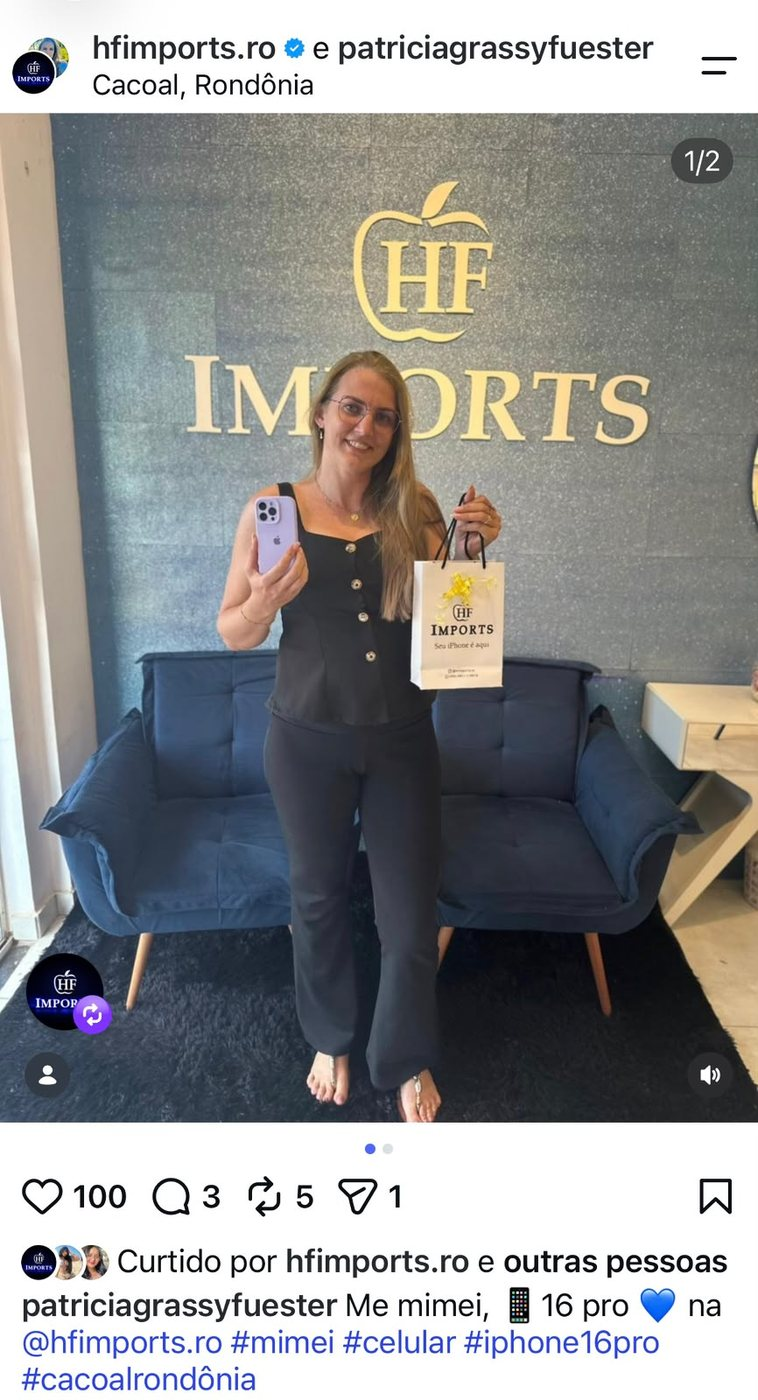
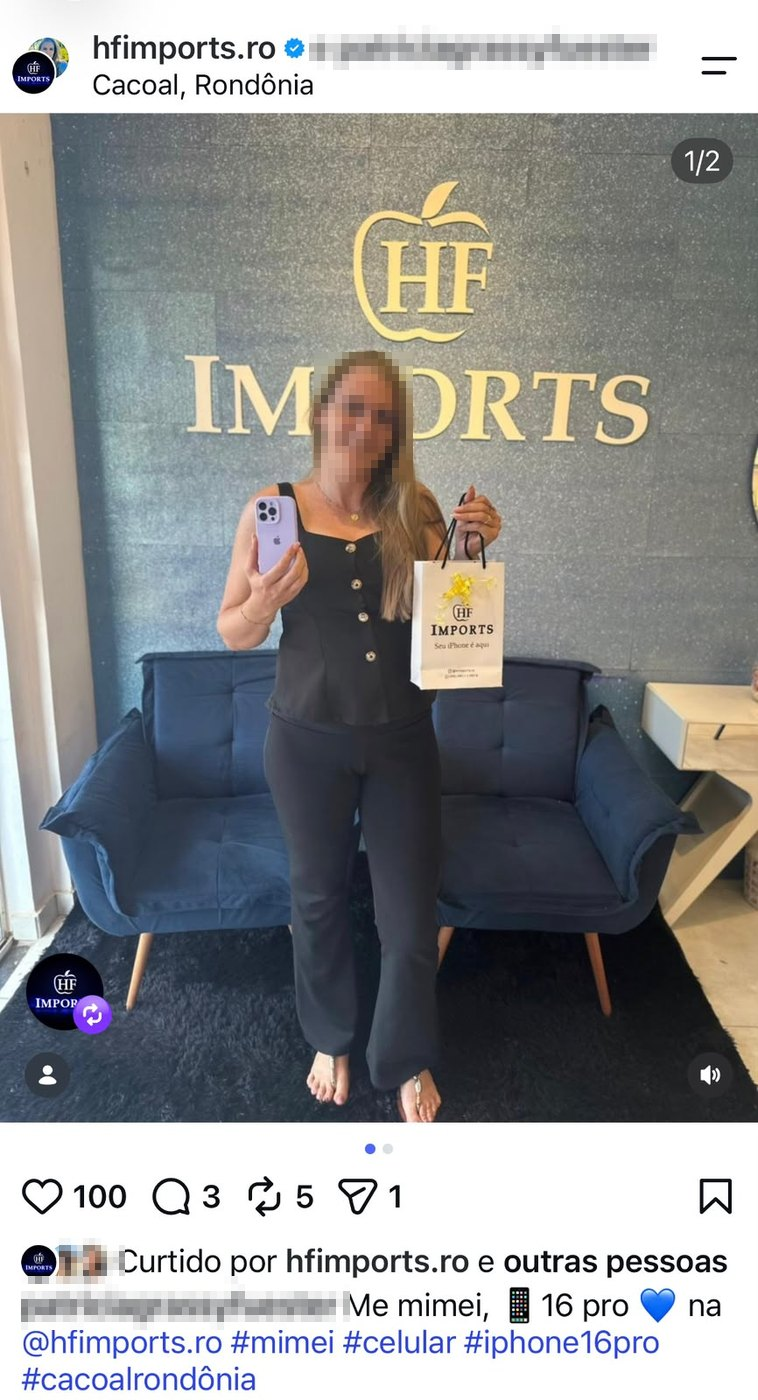
Acabamento: produto na primeira dobra em mobile, terceira pessoa anonimizada, story reequilibrado
- hero mobile: as tags saem (repetiam a faixa logo abaixo) e a foto entra inteira na
  primeira dobra em 390x844, 390x600 e 360x640, com o produto reenquadrado
- prova-post: rosto e handle da cliente ocultados, no mesmo tratamento dos directs
- prova social: o card do story deixa de ser o maior e passa ao tamanho dos demais;
  o rodape da secao entra na grade ao lado dele
- og:url e canonical mantidos, por nao haver ainda URL definitiva do cliente

diff --git a/index.html b/index.html
@@ -246,12 +246,13 @@ p{margin:0;}
 .p1{grid-column:span 4;}
 .p2{grid-column:span 4;margin-top:40px;}
 .p3{grid-column:span 4;}
-.p4{grid-column:3/11;margin-top:8px;}
-.p4 img{aspect-ratio:16/9;object-fit:cover;object-position:50% 34%;}
+.p4{grid-column:span 4;}
+.p4 img{aspect-ratio:1/1;object-fit:cover;object-position:50% 40%;}
 .prova-foot{
-  margin-top:40px;padding-top:24px;border-top:1px solid rgba(3,32,78,.13);
-  display:flex;flex-wrap:wrap;gap:16px;align-items:center;justify-content:space-between;
-  font-size:15px;color:var(--ink-soft);
+  grid-column:span 8;align-self:end;padding:0 0 6px 28px;
+  border-left:1px solid rgba(3,32,78,.14);
+  display:flex;flex-direction:column;align-items:flex-start;gap:14px;
+  font-size:15.5px;line-height:1.6;color:var(--ink-soft);max-width:46ch;
 }
 .prova-foot a{color:var(--navy);text-decoration:none;font-weight:600;border-bottom:1px solid var(--gold-deep);}
 
@@ -329,7 +330,8 @@ p{margin:0;}
   .tile-c img{min-height:220px;aspect-ratio:16/7;}
   .tile-c .tile-body{padding:32px 28px 36px;}
   .p1,.p2,.p3{grid-column:span 6;margin-top:0;}
-  .p4{grid-column:span 12;}
+  .p4{grid-column:span 6;}
+  .prova-foot{grid-column:span 12;padding:22px 0 0;border-left:0;border-top:1px solid rgba(3,32,78,.14);max-width:none;}
 }
 @media (max-width:760px){
   body{font-size:16.5px;}
@@ -343,16 +345,17 @@ p{margin:0;}
   .sec{padding:72px 0;}
   .sec-tight{padding:58px 0;}
   .wrap{padding:0 20px;}
-  .hero-grid{padding:114px 0 62px;gap:34px;}
+  .hero-grid{padding:112px 0 56px;gap:26px;}
   .hero h1{font-size:clamp(31px,8.4vw,42px);}
-  .hero-sub{font-size:16.5px;}
-  .hero-cta{gap:12px;}
+  .hero-sub{font-size:16.5px;margin-top:16px;}
+  .hero-cta{gap:12px;margin-top:26px;}
   .hero-cta .btn{flex:1 1 100%;}
-  .hero-tag{margin-top:28px;padding-top:18px;font-size:12px;gap:8px 18px;}
-  .hero-shot img{aspect-ratio:16/10;object-position:52% 26%;}
+  .hero-tag{display:none;}
+  .hero-shot img{aspect-ratio:16/10;object-position:52% 62%;}
   .hero-stamp{position:static;margin-top:14px;max-width:none;}
   .p1,.p2,.p3,.p4{grid-column:span 12;margin-top:0;}
   .p4 img{aspect-ratio:4/3;}
+  .prova-foot{padding-top:18px;}
   .prova-grid{gap:16px;}
   .rodape-grid{grid-template-columns:1fr;}
   .rodape-links{text-align:left;}
@@ -362,9 +365,13 @@ p{margin:0;}
   .loja-faixa img{aspect-ratio:2/1;}
   .loja-cta .btn{flex:1 1 100%;}
 }
-@media (max-height:660px) and (max-width:760px){
-  .hero-grid{padding:104px 0 52px;}
-  .hero-shot img{aspect-ratio:2/1;}
+@media (max-height:700px) and (max-width:760px){
+  .hero-grid{padding:94px 0 40px;gap:20px;}
+  .hero h1{font-size:29px;}
+  .hero-sub{font-size:15.5px;line-height:1.5;margin-top:14px;}
+  .hero-cta{margin-top:20px;gap:10px;}
+  .hero-shot img{aspect-ratio:2.6/1;object-position:50% 78%;}
+  .hero-stamp{display:none;}
 }
 @media (prefers-reduced-motion:reduce){
   *{animation:none!important;transition:none!important;}
@@ -528,8 +535,8 @@ p{margin:0;}
         <figcaption><b>Direct</b> — cliente sobre o atendimento e as indicações que fez.</figcaption>
       </figure>
       <figure class="card p2 rv">
-        <img src="img/prova-post.jpg" alt="Publicação de cliente no Instagram dentro da HF Imports, com o iPhone e a sacola da loja" width="758" height="1400" loading="lazy">
-        <figcaption><b>Patrícia</b> — publicação marcando a loja, em Cacoal.</figcaption>
+        <img src="img/prova-post.jpg" alt="Publicação de cliente no Instagram dentro da HF Imports, com o iPhone e a sacola da loja, com a identidade ocultada" width="758" height="1400" loading="lazy">
+        <figcaption><b>Instagram</b> — publicação de cliente marcando a loja, em Cacoal.</figcaption>
       </figure>
       <figure class="card p3 rv">
         <img src="img/prova-dm2.jpg" alt="Mensagem de cliente no direct do Instagram depois de receber o aparelho, com a identidade ocultada" width="760" height="785" loading="lazy">
@@ -539,11 +546,10 @@ p{margin:0;}
         <img src="img/prova-story.jpg" alt="Sacola da HF Imports ao lado dos acessórios entregues ao cliente" width="579" height="1080" loading="lazy">
         <figcaption><b>Entrega feita</b> — sacola e acessórios como chegaram ao cliente, em story publicado por ele no Instagram.</figcaption>
       </figure>
-    </div>
-
-    <div class="prova-foot rv">
-      <p>Mensagens e publicações de clientes reais. Nas conversas de direct, a identidade de quem escreveu foi ocultada.</p>
-      <a href="https://www.instagram.com/hfimports.ro/" target="_blank" rel="noopener">Ver o perfil @hfimports.ro</a>
+      <div class="prova-foot rv">
+        <p>Mensagens e publicações de clientes reais da loja. Em todas elas, a identidade de quem aparece foi ocultada.</p>
+        <a href="https://www.instagram.com/hfimports.ro/" target="_blank" rel="noopener">Ver o perfil @hfimports.ro</a>
+      </div>
     </div>
   </div>
 </section>
